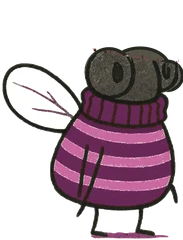
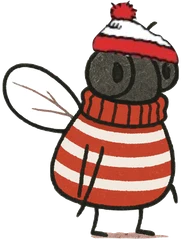
fix(thesis): the fly to find is the wild male, among released sterile males
As Marine pointed out: in the sterile insect technique the tree is flooded
with sterile males, and the striped fly is the rare wild male, the one a
female has to find for her eggs to develop. The player is now that female,
levels read "1 wild for 109 sterile" to "1 for 209", and the closing text
explains why releases make the wild male hard to find.

diff --git a/src/components/fly-hunt/HuntControls.tsx b/src/components/fly-hunt/HuntControls.tsx
@@ -12,35 +12,35 @@ const ratio = (l: Level) => Math.round((l.flies - l.find) / l.find);
 export const HUNT_COPY = copy({
   fr: {
     kicker: "À vous de jouer",
-    task: (find: number, wild: number) =>
-      `${find === 1 ? "Un seul mâle stérile se cache" : `${find} mâles stériles se cachent`} dans cet oranger, parmi ${wild} mouches sauvages. Il porte un pull rayé rouge et blanc et un bonnet rouge et blanc. Méfiez-vous des sosies : bonnet sans le pull, pull sans le bonnet, rayures roses ou orange, bonnet bleu, pull rouge uni.`,
-    scene: "Un oranger couvert de mouches en pull violet ; des mâles stériles en pull rayé rouge et blanc, coiffés d'un bonnet, s'y cachent.",
+    task: (find: number, sterile: number) =>
+      `Vous êtes une femelle. Pour que vos œufs se développent, trouvez ${find === 1 ? "le mâle sauvage" : `les ${find} mâles sauvages`} : pull rayé rouge et blanc, bonnet rouge et blanc. Les lâchers ont rempli l'oranger de ${sterile} mâles stériles, et certains lui ressemblent\u00a0: bonnet sans le pull, pull sans le bonnet, rayures roses ou orange, bonnet bleu, pull rouge uni.`,
+    scene: "Un oranger rempli de mâles stériles en pull violet ; un mâle sauvage en pull rayé rouge et blanc, coiffé d'un bonnet, s'y cache.",
     levels: "Niveau de difficulté",
     wanted: "À trouver",
-    wantedAlt: "Le mâle stérile à trouver : pull rayé rouge et blanc, bonnet rouge et blanc à pompon.",
+    wantedAlt: "Le mâle sauvage à trouver\u00a0: pull rayé rouge et blanc, bonnet rouge et blanc à pompon.",
     level: (i: number) => `Niveau ${i + 1}`,
-    ratio: (n: number) => `1 stérile pour ${n} sauvages`,
+    ratio: (n: number) => `1 sauvage pour ${n} stériles`,
     count: (n: number, total: number) => `${n} sur ${total} trouvé${n > 1 ? "s" : ""}`,
     misses: (n: number) => (n === 0 ? "aucune erreur" : `${n} erreur${n > 1 ? "s" : ""}`),
     reveal: "Montrer la réponse",
     again: "Nouvel arbre",
-    done: "Plus les mâles stériles sont rares parmi les sauvages, plus il est difficile de tomber sur eux, pour vous comme pour les femelles sauvages. Dans la technique de l'insecte stérile, on lâche donc bien plus de mâles stériles qu'il n'y a de mâles sauvages, pour qu'ils s'accouplent avec les femelles, dont les œufs ne se développeront pas. Encore faut-il qu'ils soient vraiment stériles et assez compétitifs : ce sont ces limites que la thèse examine.",
+    done: "C'est tout l'enjeu de la technique de l'insecte stérile. En lâchant bien plus de mâles stériles qu'il n'y a de mâles sauvages, on rend le mâle sauvage difficile à trouver pour les femelles, et la plupart de leurs accouplements ne donnent aucune descendance. Encore faut-il que les mâles lâchés soient vraiment stériles et assez compétitifs face aux sauvages\u00a0: ce sont ces limites que la thèse examine.",
   },
   en: {
     kicker: "Your turn",
-    task: (find: number, wild: number) =>
-      `${find === 1 ? "A single sterile male is hiding" : `${find} sterile males are hiding`} in this orange tree among ${wild} wild flies. It wears a red and white striped jumper and a red and white bobble hat. Beware of look-alikes: the hat without the jumper, the jumper without the hat, pink or orange stripes, a blue hat, a plain red jumper.`,
-    scene: "An orange tree covered in flies in purple jumpers; sterile males in red and white stripes and a bobble hat are hiding among them.",
+    task: (find: number, sterile: number) =>
+      `You are a female. For your eggs to develop, find ${find === 1 ? "the wild male" : `the ${find} wild males`}: red and white striped jumper, red and white bobble hat. Releases have filled the orange tree with ${sterile} sterile males, and some look like him: the hat without the jumper, the jumper without the hat, pink or orange stripes, a blue hat, a plain red jumper.`,
+    scene: "An orange tree filled with sterile males in purple jumpers; one wild male in red and white stripes and a bobble hat is hiding among them.",
     levels: "Difficulty",
     wanted: "Find him",
-    wantedAlt: "The sterile male to find: red and white striped jumper, red and white bobble hat.",
+    wantedAlt: "The wild male to find: red and white striped jumper, red and white bobble hat.",
     level: (i: number) => `Level ${i + 1}`,
-    ratio: (n: number) => `1 sterile for ${n} wild`,
+    ratio: (n: number) => `1 wild for ${n} sterile`,
     count: (n: number, total: number) => `${n} of ${total} found`,
     misses: (n: number) => (n === 0 ? "no mistakes" : `${n} mistake${n > 1 ? "s" : ""}`),
     reveal: "Show the answer",
     again: "New tree",
-    done: "The rarer the sterile males are among the wild ones, the harder they are to come across, for you as for wild females. In the sterile insect technique, far more sterile males are therefore released than there are wild males, to mate with the females, whose eggs will then not develop. They still have to be truly sterile and compete well: these are the limits the thesis examines.",
+    done: "That is the whole point of the sterile insect technique. By releasing far more sterile males than there are wild ones, the wild male becomes hard for females to find, and most of their matings produce no offspring. The released males still have to be truly sterile and compete well with the wild ones: these are the limits the thesis examines.",
   },
 });
 
@@ -51,7 +51,7 @@ export function WantedCard() {
   const t = HUNT_COPY[useLang()];
   return (
     <figure className="border-ink/20 bg-paper pointer-events-none absolute top-2 left-2 z-10 w-18 rounded-[3px] border px-1.5 pt-1.5 pb-1 text-center shadow-[0_6px_16px_-8px_rgba(15,29,46,0.4)] sm:w-20">
-      <Image src="/figures/fly/sterile.webp" alt={t.wantedAlt} width={183} height={240} className="mx-auto h-auto w-full" />
+      <Image src="/figures/fly/wild.webp" alt={t.wantedAlt} width={183} height={240} className="mx-auto h-auto w-full" />
       <figcaption className="mt-0.5 text-xs leading-tight whitespace-nowrap">{t.wanted}</figcaption>
     </figure>
   );

diff --git a/src/components/fly-hunt/scene.ts b/src/components/fly-hunt/scene.ts
@@ -1,24 +1,25 @@
 import { mulberry32 } from "@/lib/utils/random";
 
 /**
- * Layout of the fly hunt: an orange tree full of wild flies, with a few
- * released sterile males hidden among them and decoys that share one of their
- * marks. Everything comes from a seed and a level, so the server and the
+ * Layout of the fly hunt: an orange tree flooded with released sterile males,
+ * with one wild male hidden among them and sterile look-alikes that share one
+ * of his marks. The female's goal is to find him: only with him do her eggs develop. Everything comes from a seed and a level, so the server and the
  * browser draw the same tree and "new game" is a new seed.
  */
 export const VIEW = { w: 800, h: 500 };
 
 /**
- * sterile: red and white stripes and a red and white hat. Each decoy gets one
- * of the two wrong: the hat on a purple jumper, the jumper without a hat,
- * pink or orange stripes, a navy hat, or a plain red jumper.
+ * wild: the male to find, red and white stripes and a red and white hat.
+ * sterile: the released males in purple. Each look-alike gets one of his two
+ * marks wrong: the hat on a purple jumper, the jumper without a hat, pink or
+ * orange stripes, a navy hat, or a plain red jumper.
  */
-export type FlyKind = "sterile" | "wild" | "hat" | "stripes" | "pink" | "orange" | "navy" | "plain";
-type Decoy = Exclude<FlyKind, "sterile" | "wild">;
-/** `cover`: leaves laid over the sterile male's jumper, so only his hat and a few stripes show. */
+export type FlyKind = "wild" | "sterile" | "hat" | "stripes" | "pink" | "orange" | "navy" | "plain";
+type Decoy = Exclude<FlyKind, "wild" | "sterile">;
+/** `cover`: leaves laid over the wild male's jumper, so only his hat and a few stripes show. */
 export type Level = { find: number; flies: number; decoys: Partial<Record<Decoy, number>>; size: number; cover: number };
 
-/** One sterile male per tree; each level adds wild flies and look-alikes, and shrinks them all. */
+/** One wild male per tree; each level releases more sterile males and look-alikes, and shrinks them all. */
 export const LEVELS: Level[] = [
   { find: 1, flies: 110, decoys: { hat: 12, stripes: 10, pink: 8, orange: 6 }, size: 0.56, cover: 0 },
   { find: 1, flies: 160, decoys: { hat: 16, stripes: 14, pink: 12, orange: 10, navy: 8 }, size: 0.48, cover: 1 },
@@ -61,11 +62,11 @@ function flySpot(rand: Rand, taken: Point[], gap: number): Point {
   return p;
 }
 
-/** Kinds in a shuffled order: the sterile males first, then each decoy, then wild flies. */
+/** Kinds in a shuffled order: the wild male first, then each look-alike, then the sterile males. */
 function kindsFor(rand: Rand, level: Level): FlyKind[] {
-  const kinds: FlyKind[] = [...Array<FlyKind>(level.find).fill("sterile")];
+  const kinds: FlyKind[] = [...Array<FlyKind>(level.find).fill("wild")];
   for (const [kind, n] of Object.entries(level.decoys) as [Decoy, number][]) kinds.push(...Array<FlyKind>(n).fill(kind));
-  while (kinds.length < level.flies) kinds.push("wild");
+  while (kinds.length < level.flies) kinds.push("sterile");
   for (let i = kinds.length - 1; i > 0; i--) {
     const j = Math.floor(rand() * (i + 1));
     [kinds[i], kinds[j]] = [kinds[j], kinds[i]];
@@ -76,9 +77,9 @@ function kindsFor(rand: Rand, level: Level): FlyKind[] {
 function placeFlies(rand: Rand, level: Level): FlyPos[] {
   const flies: FlyPos[] = [];
   kindsFor(rand, level).forEach((kind, id) => {
-    const s = r1(level.size * (kind === "sterile" ? 0.95 : 0.9 + rand() * 0.3));
-    // a sterile male is never at the very back, so another fly can only hide part of it
-    const pose = { rot: Math.round(rand() * 50 - 25), flip: rand() < 0.5, z: kind === "sterile" ? 0.5 + rand() / 2 : rand() };
+    const s = r1(level.size * (kind === "wild" ? 0.95 : 0.9 + rand() * 0.3));
+    // the wild male is never at the very back, so another fly can only hide part of him
+    const pose = { rot: Math.round(rand() * 50 - 25), flip: rand() < 0.5, z: kind === "wild" ? 0.5 + rand() / 2 : rand() };
     flies.push({ id, ...flySpot(rand, flies, 44 * level.size), s, ...pose, kind });
   });
   return flies;
@@ -86,15 +87,15 @@ function placeFlies(rand: Rand, level: Level): FlyPos[] {
 
 /**
  * Leaves in front of the flies hide some of them in part. Scattered leaves keep
- * off the sterile male; on harder levels a few are laid on his jumper on purpose,
+ * off the wild male; on harder levels a few are laid on his jumper on purpose,
  * below the hat, so he is never hidden entirely.
  */
 function frontLeaves(rand: Rand, flies: FlyPos[], cover: number) {
-  const sterile = flies.filter((f) => f.kind === "sterile");
-  const scattered = blobs(rand, 60, INNER, [9, 13], 2).filter((l) => !sterile.some((f) => near(f, l, 16)));
+  const targets = flies.filter((f) => f.kind === "wild");
+  const scattered = blobs(rand, 60, INNER, [9, 13], 2).filter((l) => !targets.some((f) => near(f, l, 16)));
   // lying almost flat across the jumper (fly units: the body is centred 6 below the origin, the hat 30 above)
   const lay = (f: FlyPos, i: number): Blob => ({ x: r1(f.x + (i ? 6 : -6) * f.s), y: r1(f.y + (8 + rand() * 8) * f.s), r: r1(26 * f.s), tone: i % 2, rot: Math.round(rand() * 50 - 25) });
-  const laid = sterile.flatMap((f) => Array.from({ length: cover }, (_, i) => lay(f, i)));
+  const laid = targets.flatMap((f) => Array.from({ length: cover }, (_, i) => lay(f, i)));
   return [...scattered, ...laid];
 }
 

diff --git a/tests/unit/fly-hunt.test.tsx b/tests/unit/fly-hunt.test.tsx
@@ -3,7 +3,7 @@ import { render, screen, fireEvent, act } from "@testing-library/react";
 import { buildScene, LEVELS } from "@/components/fly-hunt/scene";
 import { FlyHunt } from "@/components/fly-hunt/FlyHunt";
 
-const sterileOf = (seed: number, level = LEVELS[0]) => buildScene(seed, level).flies.filter((f) => f.kind === "sterile");
+const wildOf = (seed: number, level = LEVELS[0]) => buildScene(seed, level).flies.filter((f) => f.kind === "wild");
 
 describe("fly hunt scene", () => {
   it("draws the same tree for the same seed and a new one for the next", () => {
@@ -11,11 +11,11 @@ describe("fly hunt scene", () => {
     expect(buildScene(2).flies).not.toEqual(buildScene(1).flies);
   });
 
-  it("hides the level's sterile males among its decoys and wild flies", () => {
+  it("hides the level's wild male among look-alikes and sterile males", () => {
     LEVELS.forEach((level, i) => {
       const { flies } = buildScene(i + 3, level);
       expect(flies).toHaveLength(level.flies);
-      expect(flies.filter((f) => f.kind === "sterile")).toHaveLength(level.find);
+      expect(flies.filter((f) => f.kind === "wild")).toHaveLength(level.find);
       for (const [kind, n] of Object.entries(level.decoys)) expect(flies.filter((f) => f.kind === kind)).toHaveLength(n);
     });
   });
@@ -29,12 +29,12 @@ describe("fly hunt scene", () => {
     expect(LEVELS.map((l) => l.cover)).toEqual([0, 1, 2]);
   });
 
-  it("covers the sterile male's jumper on hard levels, never his hat", () => {
-    const [f] = sterileOf(7, LEVELS[2]);
+  it("covers the wild male's jumper on hard levels, never his hat", () => {
+    const [f] = wildOf(7, LEVELS[2]);
     const close = buildScene(7, LEVELS[2]).front.filter((l) => Math.hypot(f.x - l.x, f.y - l.y) < 16);
     expect(close).toHaveLength(LEVELS[2].cover);
     for (const l of close) expect(l.y).toBeGreaterThan(f.y);
-    const [easy] = sterileOf(7, LEVELS[0]);
+    const [easy] = wildOf(7, LEVELS[0]);
     expect(buildScene(7, LEVELS[0]).front.filter((l) => Math.hypot(easy.x - l.x, easy.y - l.y) < 16)).toHaveLength(0);
   });
 });
@@ -43,16 +43,16 @@ const flyEl = (container: HTMLElement, id: number) => container.querySelector(`[
 
 describe("FlyHunt", () => {
   afterEach(() => vi.useRealTimers());
-  const sterile = sterileOf(1).map((f) => f.id);
-  const wild = buildScene(1).flies.find((f) => f.kind !== "sterile")!.id;
+  const target = wildOf(1).map((f) => f.id);
+  const other = buildScene(1).flies.find((f) => f.kind !== "wild")!.id;
 
-  it("counts a sterile male once, and a look-alike as a mistake", () => {
+  it("counts the wild male once, and a sterile male as a mistake", () => {
     const { container } = render(<FlyHunt />);
-    fireEvent.click(flyEl(container, wild));
+    fireEvent.click(flyEl(container, other));
     expect(screen.getByText("0 sur 1 trouvé")).toBeInTheDocument();
     expect(screen.getByText("1 erreur")).toBeInTheDocument();
-    fireEvent.click(flyEl(container, sterile[0]));
-    fireEvent.click(flyEl(container, sterile[0]));
+    fireEvent.click(flyEl(container, target[0]));
+    fireEvent.click(flyEl(container, target[0]));
     expect(screen.getByText("1 sur 1 trouvé")).toBeInTheDocument();
     expect(screen.getByText("1 erreur")).toBeInTheDocument();
   });
@@ -62,17 +62,17 @@ describe("FlyHunt", () => {
     const { container } = render(<FlyHunt />);
     act(() => vi.advanceTimersByTime(5000));
     expect(screen.getByText("0:00")).toBeInTheDocument();
-    fireEvent.click(flyEl(container, wild));
+    fireEvent.click(flyEl(container, other));
     act(() => vi.advanceTimersByTime(3000));
-    fireEvent.click(flyEl(container, sterile[0]));
+    fireEvent.click(flyEl(container, target[0]));
     act(() => vi.advanceTimersByTime(5000));
     expect(screen.getByText("0:03")).toBeInTheDocument();
-    expect(screen.getByText(/on lâche donc bien plus de mâles stériles/)).toBeInTheDocument();
+    expect(screen.getByText(/on rend le mâle sauvage difficile à trouver/)).toBeInTheDocument();
   });
 
   it("switches level and deals a new tree with a fresh score", () => {
     const { container } = render(<FlyHunt />);
-    fireEvent.click(flyEl(container, wild));
+    fireEvent.click(flyEl(container, other));
     fireEvent.click(screen.getByRole("button", { name: /Niveau 3/ }));
     expect(screen.getByText("aucune erreur")).toBeInTheDocument();
     expect(container.querySelectorAll("[data-fly]")).toHaveLength(LEVELS[2].flies);
@@ -81,7 +81,7 @@ describe("FlyHunt", () => {
   it("shows the fly to find in the corner of the tree", () => {
     render(<FlyHunt />);
     expect(screen.getByText("À trouver")).toBeInTheDocument();
-    expect(screen.getByRole("img", { name: /Le mâle stérile à trouver/ })).toHaveAttribute("src", expect.stringContaining("sterile.webp"));
+    expect(screen.getByRole("img", { name: /Le mâle sauvage à trouver/ })).toHaveAttribute("src", expect.stringContaining("wild.webp"));
   });
 
   it("can show the answer without finding them", () => {

diff --git a/src/components/fly-hunt/FlyHunt.tsx b/src/components/fly-hunt/FlyHunt.tsx
@@ -33,7 +33,7 @@ function useHunt(level: Level, seed: number) {
     const id = Number((e.target as Element).closest("[data-fly]")?.getAttribute("data-fly"));
     const fly = scene.flies[id];
     if (over || !fly || found.includes(id)) return;
-    if (fly.kind === "sterile") setFound((f) => [...f, id]);
+    if (fly.kind === "wild") setFound((f) => [...f, id]);
     else setHops((h) => ({ ...h, [id]: (h[id] ?? 0) + 1 }));
   };
   return { scene, found, hops, revealed, over, misses, seconds, pick, reveal: () => setRevealed(true) };
@@ -63,7 +63,7 @@ function Ring({ fly, missed }: { fly: FlyPos; missed: boolean }) {
 function HuntBoard({ hunt, className }: { hunt: Hunt; className?: string }) {
   const t = HUNT_COPY[useLang()];
   const { scene, found, hops, revealed, pick } = hunt;
-  const ringed = scene.flies.filter((f) => f.kind === "sterile" && (revealed || found.includes(f.id)));
+  const ringed = scene.flies.filter((f) => f.kind === "wild" && (revealed || found.includes(f.id)));
   return (
     <div className="relative">
       <WantedCard />
@@ -102,9 +102,9 @@ function HuntGame({ level, seed, onRestart }: { level: Level; seed: number; onRe
 }
 
 /**
- * Find the released sterile males in an orange tree full of wild flies, after
- * the drawings of the thesis defence. Three levels: fewer sterile males, more
- * wild flies, more look-alikes.
+ * Play the female: find the one wild male in an orange tree flooded with
+ * released sterile males, after the drawings of the thesis defence. Three
+ * levels: more sterile males, more look-alikes, smaller flies.
  */
 export function FlyHunt() {
   const t = HUNT_COPY[useLang()];

diff --git a/src/components/fly-hunt/Fly.tsx b/src/components/fly-hunt/Fly.tsx
@@ -2,9 +2,10 @@ import type { FlyPos } from "@/components/fly-hunt/scene";
 
 /**
  * Every fly is Marine's drawing from the thesis defence (public/figures/fly).
- * The sterile male is the original: red and white stripes, red and white
+ * The wild male to find is the original: red and white stripes, red and white
  * bobble hat. The other looks are the same drawing recoloured, or with the hat
- * taken off: wild flies in purple, and decoys that get one of the two marks wrong.
+ * taken off: the released sterile males in purple, and look-alikes that get
+ * one of his two marks wrong.
  *
  * The sprite is placed so the jumper is centred 8 units below the fly's origin
  * and the whole fly stands 74 units tall before scaling.

diff --git a/src/components/fly-hunt/Tree.tsx b/src/components/fly-hunt/Tree.tsx
@@ -4,7 +4,7 @@ import type { Blob, Fruit, Scene } from "@/components/fly-hunt/scene";
 const MASS = ["#2f6a2b", "#3a7a31", "#47883a"];
 const LEAF = ["#5c9c3e", "#6fae47", "#3f8031"];
 const FRONT = ["#7ab84c", "#5f9f3f"];
-/** red and white flowers too, so a patch of red is not enough to spot the sterile male */
+/** red and white flowers too, so a patch of red is not enough to spot the wild male */
 const FLOWER = ["#fbf6ee", "#f2d43a", "#e58fb0", "#d9302a"];
 
 const TRUNK =

diff --git a/docs/DESIGN_SYSTEM.md b/docs/DESIGN_SYSTEM.md
@@ -63,6 +63,6 @@ Couche « éditoriale cinématique » (anime.js, `useAnimeScope` qui ne s'exécu
 | Bandes colorées qui s'ouvrent au défilement | `SectionFlow` | accueil |
 | Transitions de page et titre qui se transforme de la liste à la fiche | `<ViewTransition>` de React (layout, `PageHeader morphName`) | navigation interne |
 
-Sous deux publications, une animation ou un jeu : l'aquarium complet (`FishPanel` : densité de proies, captures par banc, liens vers l'article) sous l'article sur la réponse fonctionnelle, et la chasse aux mâles stériles (`FlyHunt`, `src/app/fly-hunt.css`) sous la thèse. Toutes les mouches sont le dessin de la soutenance (`public/figures/fly`) : l'original pour le mâle stérile, le même dessin recoloré ou sans bonnet pour les sauvages et les sosies. Un seul mâle stérile par arbre et trois niveaux (de 1 stérile pour 109 sauvages à 1 pour 209), avec six sortes de sosies (bonnet sans le pull, pull sans le bonnet, rayures roses ou orange, bonnet bleu, pull rouge uni) et, aux niveaux 2 et 3, des feuilles posées sur son pull, un chronomètre et un compte d'erreurs. Les mouches battent des ailes une fois à l'entrée dans l'écran puis au survol ; mouvement réduit : tout reste immobile.
+Sous deux publications, une animation ou un jeu : l'aquarium complet (`FishPanel` : densité de proies, captures par banc, liens vers l'article) sous l'article sur la réponse fonctionnelle, et la chasse au mâle sauvage (`FlyHunt`, `src/app/fly-hunt.css`) sous la thèse. Le joueur est une femelle qui cherche l'unique mâle sauvage (pull rayé rouge et blanc, bonnet) dans un oranger inondé de mâles stériles, comme lors d'un lâcher. Toutes les mouches sont le dessin de la soutenance (`public/figures/fly`) : l'original pour le mâle sauvage, le même dessin recoloré ou sans bonnet pour les stériles et les sosies. Trois niveaux (de 1 sauvage pour 109 stériles à 1 pour 209), six sortes de sosies (bonnet sans le pull, pull sans le bonnet, rayures roses ou orange, bonnet bleu, pull rouge uni), des feuilles posées sur son pull aux niveaux 2 et 3, une vignette « À trouver » dans le coin, un chronomètre et un compte d'erreurs. Les mouches se dandinent une fois à l'entrée dans l'écran puis au survol ; mouvement réduit : tout reste immobile.
 
 Sans JavaScript, les titres réapparaissent après 2,5 s (`kinetic-failsafe`) et le rail reste une liste verticale.
